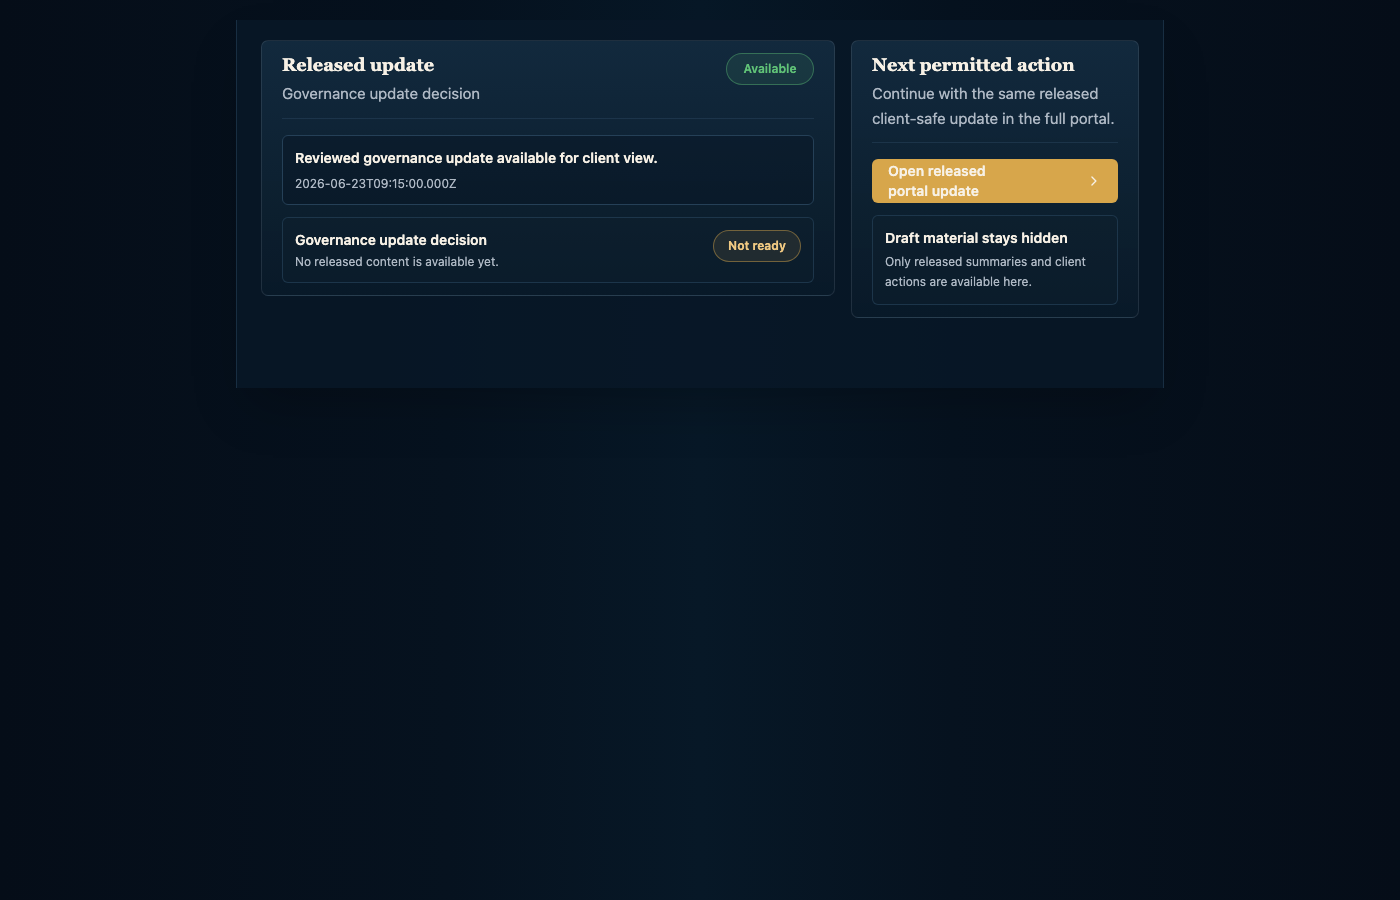
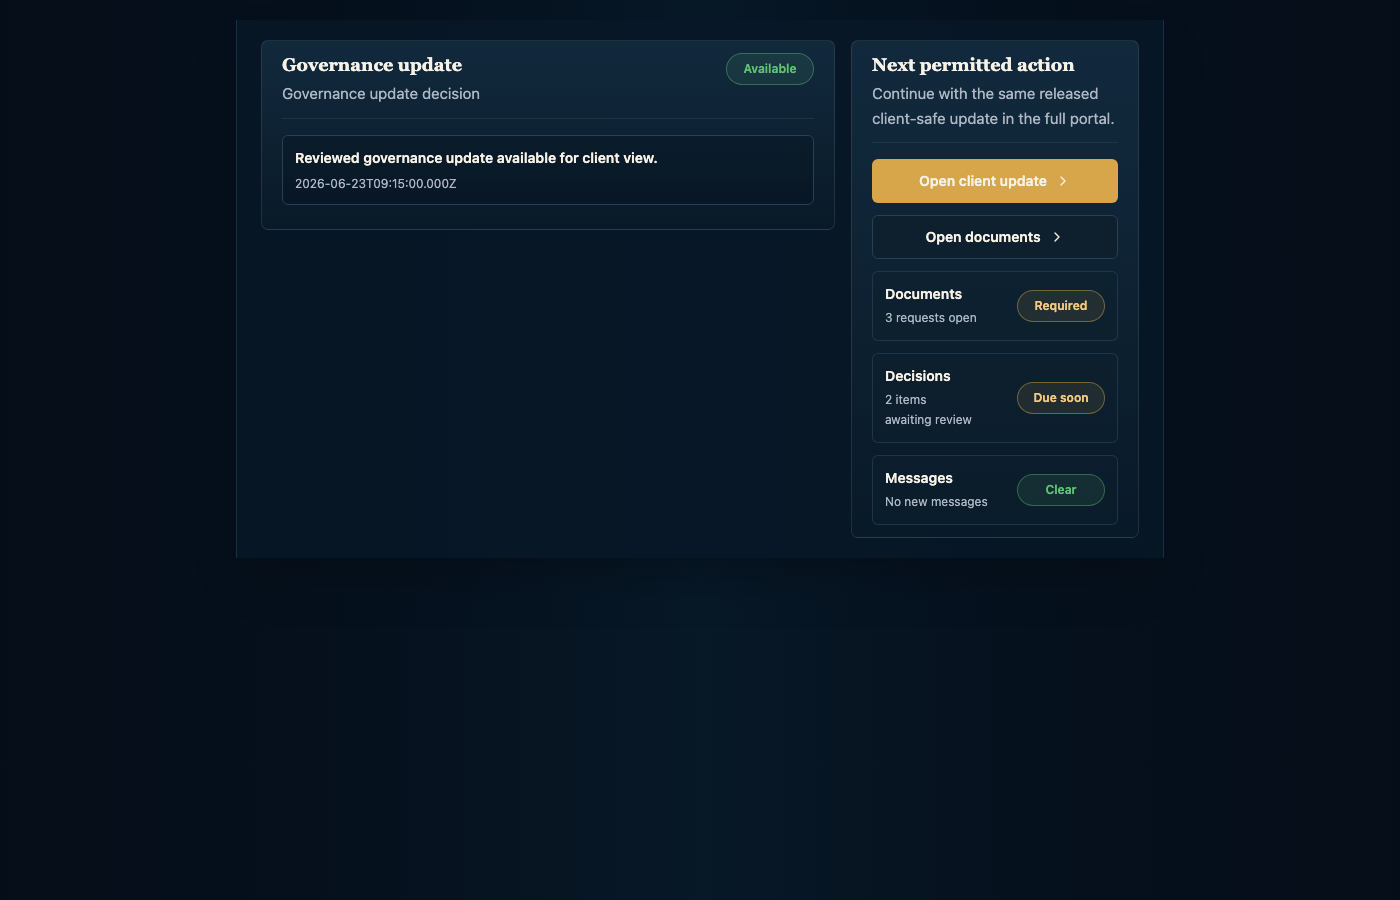
fix: remove client visibility explainer panels

diff --git a/lib/client-portal-projection-state.ts b/lib/client-portal-projection-state.ts
@@ -3,7 +3,6 @@ import type {
   DocumentPayloadProjection,
   RecommendationPayloadProjection,
 } from "@/lib/visibility-engine";
-import type { UxComponentState } from "@/lib/ux-lifecycle-state-contract";
 import { visibilityEngine } from "@/lib/visibility-engine";
 
 export type ClientPortalProjectionKind = "decision" | "document" | "recommendation";
@@ -28,12 +27,6 @@ export type ClientPortalProjectionViewModel = {
   safe: boolean;
   state: ClientPortalProjectionState;
   visible: boolean;
-};
-
-export type ClientPortalProjectionStatePanelCopy = {
-  componentState: UxComponentState;
-  detail: string;
-  title: string;
 };
 
 type ClientPortalProjection =
@@ -96,53 +89,5 @@ export function clientPortalProjectionState(
     safe: projection.visible ? forbiddenFieldsPresent.length === 0 : forbiddenFieldsPresent.length === 0,
     state,
     visible: projection.visible,
-  };
-}
-
-export function clientPortalProjectionStatePanelCopy(model: ClientPortalProjectionViewModel): ClientPortalProjectionStatePanelCopy {
-  if (model.state === "released") {
-    return {
-      componentState: "success",
-      detail: "This view is derived from release and projection rules. Release does not mean client acceptance.",
-      title: "Client-safe summary is now available",
-    };
-  }
-
-  if (model.state === "permission_denied") {
-    return {
-      componentState: "denied",
-      detail: "This account cannot view the requested client-safe projection. No internal object detail is disclosed.",
-      title: "Access restricted",
-    };
-  }
-
-  if (model.state === "redacted") {
-    return {
-      componentState: "redacted",
-      detail: "Only redacted client-safe metadata is available in this view.",
-      title: "Redacted summary available",
-    };
-  }
-
-  if (model.state === "source_upload") {
-    return {
-      componentState: "validation",
-      detail: "Your upload is available as source-document status only. It is not evidence sufficiency, release readiness or advice.",
-      title: "Source upload received",
-    };
-  }
-
-  if (model.state === "hidden") {
-    return {
-      componentState: "hidden",
-      detail: "This item is not available in the client view yet. No supporting detail is shown until a released projection exists.",
-      title: "Content unavailable",
-    };
-  }
-
-  return {
-    componentState: model.state === "blocked" ? "blocked" : "empty",
-    detail: "Your AlphaVest team is still reviewing this item. No decision body or supporting detail is shown until a released projection exists.",
-    title: "No released content is available yet",
   };
 }

diff --git a/components/client-intake-screen.tsx b/components/client-intake-screen.tsx
@@ -964,7 +964,7 @@ function ClientSafeProjectionCard({ density = "desktop" }: { density?: "desktop"
       <CardHeader className="pb-3">
         <div className="flex items-start justify-between gap-3">
           <div className="min-w-0">
-            <CardTitle>Released update</CardTitle>
+            <CardTitle>Governance update</CardTitle>
             <CardDescription>{releasedReadModel.ui.title}</CardDescription>
           </div>
           <ClientStatePill tone={releasedReadModel.ui.nextActionEnabled ? "green" : "gold"}>{releasedReadModel.ui.statusLabel}</ClientStatePill>
@@ -975,17 +975,9 @@ function ClientSafeProjectionCard({ density = "desktop" }: { density?: "desktop"
           <p className="text-sm font-semibold leading-5 text-alphavest-ivory">{releasedReadModel.ui.summary}</p>
           <p className="mt-2 text-xs text-alphavest-muted">{releasedReadModel.ui.releasedAt}</p>
         </div>
-        <div
-          className="flex items-start justify-between gap-3 rounded-md border border-alphavest-border/70 bg-alphavest-charcoal/45 p-3"
-          data-testid="wp07-client-fail-closed-state"
-          data-wp03-blocked-state={blockedReadModel.ui.state}
-        >
-          <div className="min-w-0">
-            <p className="text-sm font-semibold text-alphavest-ivory">{blockedReadModel.ui.title}</p>
-            <p className="mt-1 text-xs text-alphavest-muted">{blockedReadModel.ui.summary}</p>
-          </div>
-          <ClientStatePill tone="gold">{blockedReadModel.ui.statusLabel}</ClientStatePill>
-        </div>
+        <span className="sr-only" data-testid="wp07-client-fail-closed-state" data-wp03-blocked-state={blockedReadModel.ui.state}>
+          {blockedReadModel.ui.statusLabel}
+        </span>
       </CardContent>
     </Card>
   );
@@ -1004,7 +996,7 @@ function PortalPage({ title }: { title: string }) {
         safetyNote="Some items are unavailable for this client view."
         statusItems={[
           { label: "Context", tone: "blue", value: "Client home" },
-          { label: "Visibility", tone: "gold", value: "released projection only" },
+          { label: "Updates", tone: "green", value: "Ready" },
         ]}
         title={title}
         worksurfaceId="client-context-home"
@@ -1360,10 +1352,23 @@ function MobileHomePage({ title }: { title: string }) {
                     {buildDomainHReleasedDecisionReadModel().ui.nextActionLabel}
                     <ChevronRight aria-hidden="true" className="size-4" />
                   </Link>
-                  <div className="rounded-md border border-alphavest-border/70 bg-alphavest-charcoal/45 p-3">
-                    <p className="text-sm font-semibold text-alphavest-ivory">Draft material stays hidden</p>
-                    <p className="mt-1 text-xs leading-5 text-alphavest-muted">Only released summaries and client actions are available here.</p>
-                  </div>
+                  <Link className={cn(secondaryButtonClass, "w-full justify-center")} href="/documents">
+                    Open documents
+                    <ChevronRight aria-hidden="true" className="size-4" />
+                  </Link>
+                  {[
+                    ["Documents", "3 requests open", "Required"],
+                    ["Decisions", "2 items awaiting review", "Due soon"],
+                    ["Messages", "No new messages", "Clear"],
+                  ].map(([label, detail, status]) => (
+                    <div className="flex items-center justify-between gap-3 rounded-md border border-alphavest-border/70 bg-alphavest-charcoal/45 p-3" key={label}>
+                      <div className="min-w-0">
+                        <p className="text-sm font-semibold text-alphavest-ivory">{label}</p>
+                        <p className="mt-1 text-xs leading-5 text-alphavest-muted">{detail}</p>
+                      </div>
+                      <ClientStatePill tone={status === "Clear" ? "green" : "gold"}>{status}</ClientStatePill>
+                    </div>
+                  ))}
                 </CardContent>
               </Card>
             </aside>

diff --git a/components/decisions-governance-screen.tsx b/components/decisions-governance-screen.tsx
@@ -200,17 +200,7 @@ function ProgressBar({ tone = "gold", value }: { tone?: BadgeTone; value: number
 
 function Phase12Sidebar() {
   return (
-    <ProcessSidebar
-      footer={
-        <div className="rounded-md border border-alphavest-gold/30 bg-alphavest-gold/10 p-4">
-          <div className="flex items-center gap-2 text-sm font-semibold text-alphavest-gold-soft">
-            <ShieldCheck aria-hidden="true" className="size-4" />
-            Controlled visibility
-          </div>
-          <p className="mt-2 text-xs leading-5 text-alphavest-muted">No unapproved advice reaches the client. Sensitive actions are audit logged.</p>
-        </div>
-      }
-    />
+    <ProcessSidebar />
   );
 }
 
@@ -1044,10 +1034,6 @@ function DecisionRoomCoreSurface({ title }: { title: string }) {
               <p className="mt-1 text-xs text-alphavest-muted">{releasedProjection.ui.releasedAt}</p>
             </div>
           </ClientSafeUiBoundary>
-          <div className="rounded-md border border-alphavest-border bg-alphavest-navy/35 p-2.5 lg:col-span-2" data-testid="epic12-s044-blocker">
-            <p className="text-sm font-semibold text-alphavest-ivory">Protected material stays hidden</p>
-            <p className="mt-1 text-sm leading-5 text-alphavest-muted">{releasedProjection.ui.blockerCopy}</p>
-          </div>
         </div>
       </div>
     </section>
@@ -1372,10 +1358,10 @@ function DecisionSuccessPage({ title }: { title: string }) {
                 <IconTile tone="green"><Check aria-hidden="true" className="size-5" /></IconTile>
                 <div className="min-w-0">
                   <h2 className="font-display text-xl text-alphavest-ivory">{title}</h2>
-                  <p className="mt-1 text-sm leading-5 text-alphavest-muted">Decision recorded for review. Audit persistence remains a controlled check.</p>
+                  <p className="mt-1 text-sm leading-5 text-alphavest-muted">Decision recorded for review.</p>
                 </div>
               </div>
-              <span className="rounded-full border border-alphavest-green/40 bg-alphavest-green/10 px-3 py-1 text-xs font-semibold text-alphavest-green">Audit persisted</span>
+              <span className="rounded-full border border-alphavest-green/40 bg-alphavest-green/10 px-3 py-1 text-xs font-semibold text-alphavest-green">Recorded</span>
             </div>
             <div className="grid gap-2 md:grid-cols-4">
               {[
@@ -1391,15 +1377,9 @@ function DecisionSuccessPage({ title }: { title: string }) {
               ))}
             </div>
             <ClientSafeUiBoundary family="decision_client_summary" pageId="045" testId="domain-h-s045-client-safe-boundary">
-              <div className="grid gap-2 md:grid-cols-[minmax(0,1fr)_18rem]" data-testid="domain-h-s045-client-safe-summary">
-                <div className="rounded-md border border-alphavest-green/35 bg-alphavest-green/10 p-2.5">
-                  <p className="text-sm font-semibold text-alphavest-ivory">{releasedProjection.ui.title}</p>
-                  <p className="mt-1 text-sm leading-5 text-alphavest-muted">{releasedProjection.ui.summary}</p>
-                </div>
-                <div className="rounded-md border border-alphavest-border/60 bg-alphavest-navy/30 p-2.5">
-                  <p className="text-sm font-semibold text-alphavest-ivory">Client material</p>
-                  <p className="mt-1 text-sm leading-5 text-alphavest-muted">{releasedProjection.ui.hiddenMaterialCopy}</p>
-                </div>
+              <div className="rounded-md border border-alphavest-green/35 bg-alphavest-green/10 p-2.5" data-testid="domain-h-s045-client-safe-summary">
+                <p className="text-sm font-semibold text-alphavest-ivory">{releasedProjection.ui.title}</p>
+                <p className="mt-1 text-sm leading-5 text-alphavest-muted">{releasedProjection.ui.summary}</p>
               </div>
             </ClientSafeUiBoundary>
           </section>
@@ -1661,7 +1641,7 @@ function EvidenceVaultPage({ title, visualState }: { title: string; visualState?
                         <InfoRow label="Visibility" value={selectedEvidence.visibilityGate} />
                         <InfoRow label="Target" value={selectedEvidence.targetObjectType ? `${selectedEvidence.targetObjectType} ${selectedEvidence.targetObjectId?.slice(0, 8) ?? ""}` : "Document scoped"} />
                         <InfoRow label="Review" value={selectedEvidence.reviewStatus ?? "Pending"} />
-                        <InfoRow label="Client-safe summary" value={selectedEvidence.clientSafeSummary ?? "Unavailable until scoped review accepts a summary."} />
+                        <InfoRow label="Client summary" value={selectedEvidence.clientSafeSummary ?? "Unavailable until review accepts a summary."} />
                       </div>
                       <StatePanel
                         className="p-2"
@@ -1822,7 +1802,7 @@ function EvidenceVaultPage({ title, visualState }: { title: string; visualState?
               <InfoRow label="Updated" value={selectedEvidence?.updated ?? "No update date"} />
               <InfoRow label="Target" value={selectedEvidence?.targetObjectType ? `${selectedEvidence.targetObjectType} ${selectedEvidence.targetObjectId?.slice(0, 8) ?? ""}` : "Document scoped"} />
               <InfoRow label="Review" value={selectedEvidence?.reviewStatus ?? "Pending"} />
-              <InfoRow label="Client-safe summary" value={selectedEvidence?.clientSafeSummary ?? "Unavailable until scoped review accepts a summary."} />
+              <InfoRow label="Client summary" value={selectedEvidence?.clientSafeSummary ?? "Unavailable until review accepts a summary."} />
             </div>
           </section>
           <section className="rounded-md border border-alphavest-border/70 bg-alphavest-navy/30 p-3">

diff --git a/tests/true-ux-client-projection.spec.ts b/tests/true-ux-client-projection.spec.ts
@@ -306,14 +306,14 @@ test.describe("V0.96 WP-07 decision record and client-safe projection refactor",
 
     const card = page.getByTestId("wp07-client-safe-projection-card").first();
     await expect(card).toBeVisible();
-    await expect(card).toHaveAttribute("data-wp07-projection-source", "visibility-engine");
-    await expect(card).toHaveAttribute("data-wp07-projection-state", "DEMO_CLIENT_DECISION_SAFE_PROJECTION");
+    await expect(card).toHaveAttribute("data-wp07-projection-source", "DOMAIN_H_RELEASED_PROJECTION_CONTRACT");
+    await expect(card).toHaveAttribute("data-wp07-projection-state", "released");
     await expect(card).toHaveAttribute("data-wp07-safe-clean", "true");
-    await expect(card.getByText("Released update")).toBeVisible();
+    await expect(card.getByRole("heading", { name: "Governance update" })).toBeVisible();
     await expect(card.getByTestId("wp07-client-safe-summary")).toContainText("Reviewed governance update available for client view.");
-    await expect(card.getByTestId("wp07-client-fail-closed-state")).toContainText("No released content is available yet");
+    await expect(card.getByTestId("wp07-client-fail-closed-state")).toContainText("Not ready");
     await expect(card).not.toContainText(/AI Draft|internal rationale|compliance notes|storage key|evidence record id|audit event|client accepted/i);
-    await expect(card).not.toContainText(/fail-closed fallback|permitted metadata|projection boundary/i);
+    await expect(card).not.toContainText(/Client-safe summary|fail-closed fallback|permitted metadata|projection boundary|No released content is available yet/i);
   });
 
   test("client-safe projection card keeps the same semantic contract in mobile density", async ({ page }) => {
@@ -324,9 +324,9 @@ test.describe("V0.96 WP-07 decision record and client-safe projection refactor",
     const card = page.getByTestId("wp07-client-safe-projection-card").first();
     await expect(card).toBeVisible();
     await expect(card).toHaveAttribute("data-wp07-mobile-parity", "true");
-    await expect(card).toHaveAttribute("data-wp07-projection-source", "visibility-engine");
+    await expect(card).toHaveAttribute("data-wp07-projection-source", "DOMAIN_H_RELEASED_PROJECTION_CONTRACT");
     await expect(card).toHaveAttribute("data-wp07-safe-clean", "true");
-    await expect(card.getByText("Released update")).toBeVisible();
+    await expect(card.getByRole("heading", { name: "Governance update" })).toBeVisible();
     await expect(card.getByTestId("wp07-client-fail-closed-state")).toContainText("Not ready");
   });
 

diff --git a/tests/true-ux-no-overclaim-copy.spec.ts b/tests/true-ux-no-overclaim-copy.spec.ts
@@ -93,24 +93,24 @@ test.describe("V0.96 WP-12 no-overclaim microcopy and state feedback", () => {
     await authenticate(page);
 
     await page.goto("/client/home");
-    await expect(page.getByText("Client-safe summary").first()).toBeVisible();
-    await expect(page.getByText("Client-safe summary is now available").first()).toBeVisible();
+    await expect(page.getByText("Governance update").first()).toBeVisible();
+    await expect(page.locator("body")).not.toContainText(/Client-safe summary is now available|release and projection rules|fail-closed fallback|projection boundary|permitted metadata/i);
     await expect(page.getByText("Client visible", { exact: true })).toHaveCount(0);
 
     await page.goto("/compliance/reviews/demo/decision-room");
-    await expect(page.getByText("Evidence review state").first()).toBeVisible();
+    await expect(page.locator("main").first()).toBeVisible();
     await expect(page.getByText("Evidence completeness", { exact: true })).toHaveCount(0);
 
     await page.goto("/committee/reviews");
-    await expect(page.getByText("No client-visible payload is exposed from this held route.").first()).toBeVisible();
+    await expect(page.locator("main").first()).toBeVisible();
     await expect(page.getByText("Client visible", { exact: true })).toHaveCount(0);
 
     await page.goto("/actions");
-    await expect(page.getByText("Client-safe visible", { exact: true }).first()).toBeVisible();
-    await expect(page.getByText("Must stay evidence-backed and release-controlled").first()).toBeVisible();
+    await expect(page.locator("main").first()).toBeVisible();
+    await expect(page.getByText("Client-safe visible", { exact: true })).toHaveCount(0);
 
     await page.goto("/reviews/demo");
-    await expect(page.getByText("No client-visible payload is exposed from this held route.").first()).toBeVisible();
+    await expect(page.locator("main").first()).toBeVisible();
     await expect(page.getByText("Client visible", { exact: true })).toHaveCount(0);
   });
 });

diff --git a/lib/domain-h-released-projection-contract.ts b/lib/domain-h-released-projection-contract.ts
@@ -179,7 +179,7 @@ export function buildDomainHReleasedDecisionReadModel(
   const title = state.visible ? String(projectedPayload.title ?? payload.title) : payload.title;
   const summary = state.visible
     ? String(projectedPayload.clientSummary ?? "No released summary is available.")
-    : "No released content is available yet.";
+    : "This update is still being reviewed.";
   const releasedAt = state.visible ? String(projectedPayload.releasedAt ?? "Release date unavailable") : "Pending release";
 
   return {
@@ -192,12 +192,12 @@ export function buildDomainHReleasedDecisionReadModel(
     },
     ui: {
       blockerCopy: state.visible
-        ? "Draft material, internal notes and review detail stay hidden."
-        : "The client view stays empty until a released client-safe projection exists.",
-      hiddenMaterialCopy: "Only released summaries and permitted client actions are available here.",
+        ? "Draft notes are not part of this client update."
+        : "This update is not ready for the client yet.",
+      hiddenMaterialCopy: "Documents and messages remain in their own work queues.",
       nextActionEnabled: state.visible && state.safe,
       nextActionHref: "/client/home",
-      nextActionLabel: "Open released portal update",
+      nextActionLabel: "Open client update",
       releasedAt,
       safe: state.safe,
       state: state.state,

diff --git a/tests/scf-p07-p09-trust-ui.spec.ts b/tests/scf-p07-p09-trust-ui.spec.ts
@@ -24,17 +24,18 @@ test.describe("SCF P07-P09 client visibility, governance and export controls", (
     await expect(page.locator("body")).not.toContainText(/Client projection stays separated|internal payload|release gates|manual override|storage keys/i);
   });
 
-  test("renders P07 decision submitted/released projection on decision surfaces", async ({ page }) => {
+  test("keeps P07 projection proof out of visible decision surfaces", async ({ page }) => {
     await authenticate(page);
     await page.goto("/decisions/demo");
 
     await expect(page.getByTestId("p07-p09-decision-trust")).toHaveCount(0);
-    await expect(page.getByTestId("ux-phase7-client-projection")).toBeVisible();
-    await expect(page.getByTestId("ux-phase7-client-projection")).toContainText("Client view stays fail-closed and never exposes internal data.");
+    await expect(page.getByTestId("ux-phase7-client-projection")).toHaveCount(0);
+    await expect(page.locator("body")).not.toContainText(/Client view stays fail-closed|client projection|projection rules|internal payload/i);
 
     await page.goto("/decisions/demo/success");
     await expect(page.getByTestId("p07-p09-decision-trust")).toHaveCount(0);
-    await expect(page.getByTestId("ux-page-detail-standard")).toBeVisible();
+    await expect(page.getByTestId("epic12-decision-success-core")).toBeVisible();
+    await expect(page.locator("body")).not.toContainText(/Controlled visibility|Sensitive actions are audit logged|Client material|projection rules/i);
   });
 
   test("keeps governance surfaces on product controls instead of deprecated P08 trust panels", async ({ page }) => {

diff --git a/tests/domain-h-client-safe-boundary-ui.spec.ts b/tests/domain-h-client-safe-boundary-ui.spec.ts
@@ -9,7 +9,7 @@ const domainHRoutes = [
 ];
 
 const forbiddenVisibleDomainHText =
-  /DOMAIN_H|BP-067|BP-068|BP-069|step contract|proof boundary|proof panel|payload keys|hidden fields|internalRationale|complianceNotes|auditMetadata|assumptionsJson|evidenceRecordId/i;
+  /DOMAIN_H|BP-067|BP-068|BP-069|step contract|proof boundary|proof panel|payload keys|hidden fields|internalRationale|complianceNotes|auditMetadata|assumptionsJson|evidenceRecordId|Client-safe summary|projection rules|client projection|fail-closed fallback|permitted metadata|Controlled visibility|Sensitive actions are audit logged|Client material|No released content is available yet/i;
 
 async function authenticate(page: import("@playwright/test").Page) {
   await page.context().addCookies([

diff --git a/tests/domain-h-released-projection-contract.spec.ts b/tests/domain-h-released-projection-contract.spec.ts
@@ -71,7 +71,7 @@ test.describe("DOMAIN-H released projection contract", () => {
 
     for (const readModel of [unreleased, wrongScope]) {
       expect(readModel.ui.nextActionEnabled).toBe(false);
-      expect(readModel.ui.summary).toBe("No released content is available yet.");
+      expect(readModel.ui.summary).toBe("This update is still being reviewed.");
       expect(readModel.payloadKeys).toEqual([]);
       expect(readModel.proof.forbiddenFieldsPresent).toEqual([]);
       expect(readModel.hiddenFields).toEqual(expect.arrayContaining(["clientSummary", "internalRationale", "complianceNotes"]));